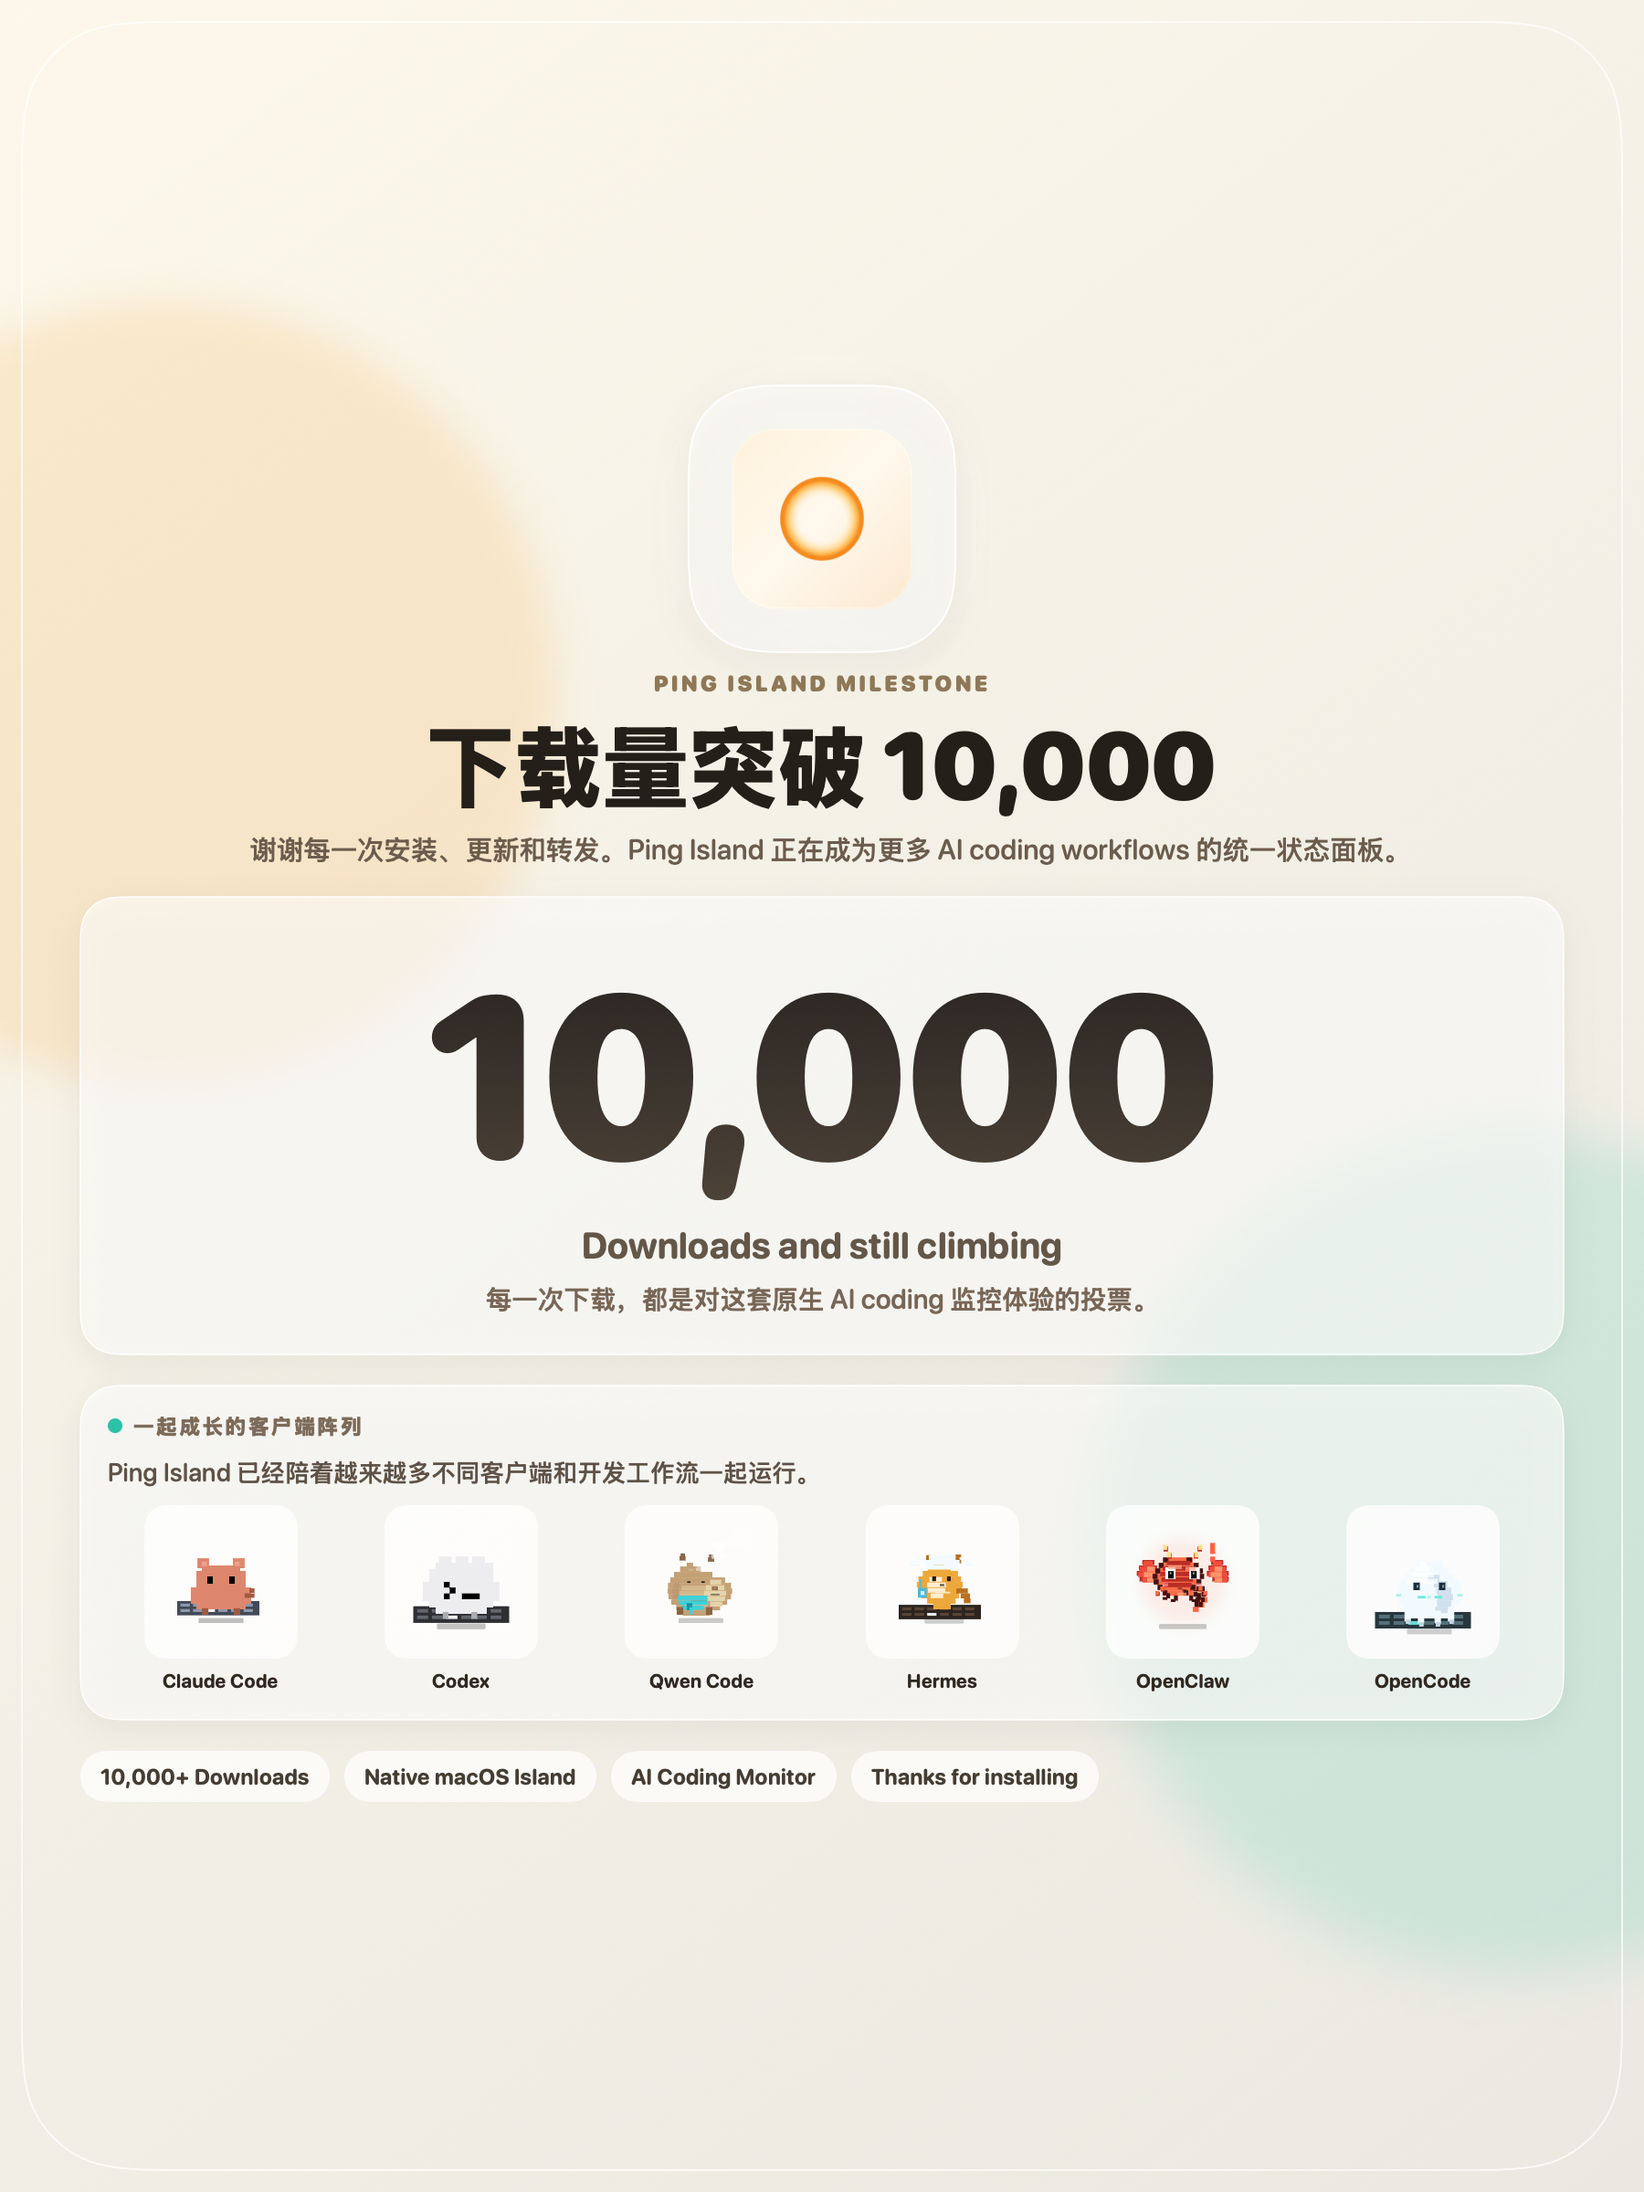
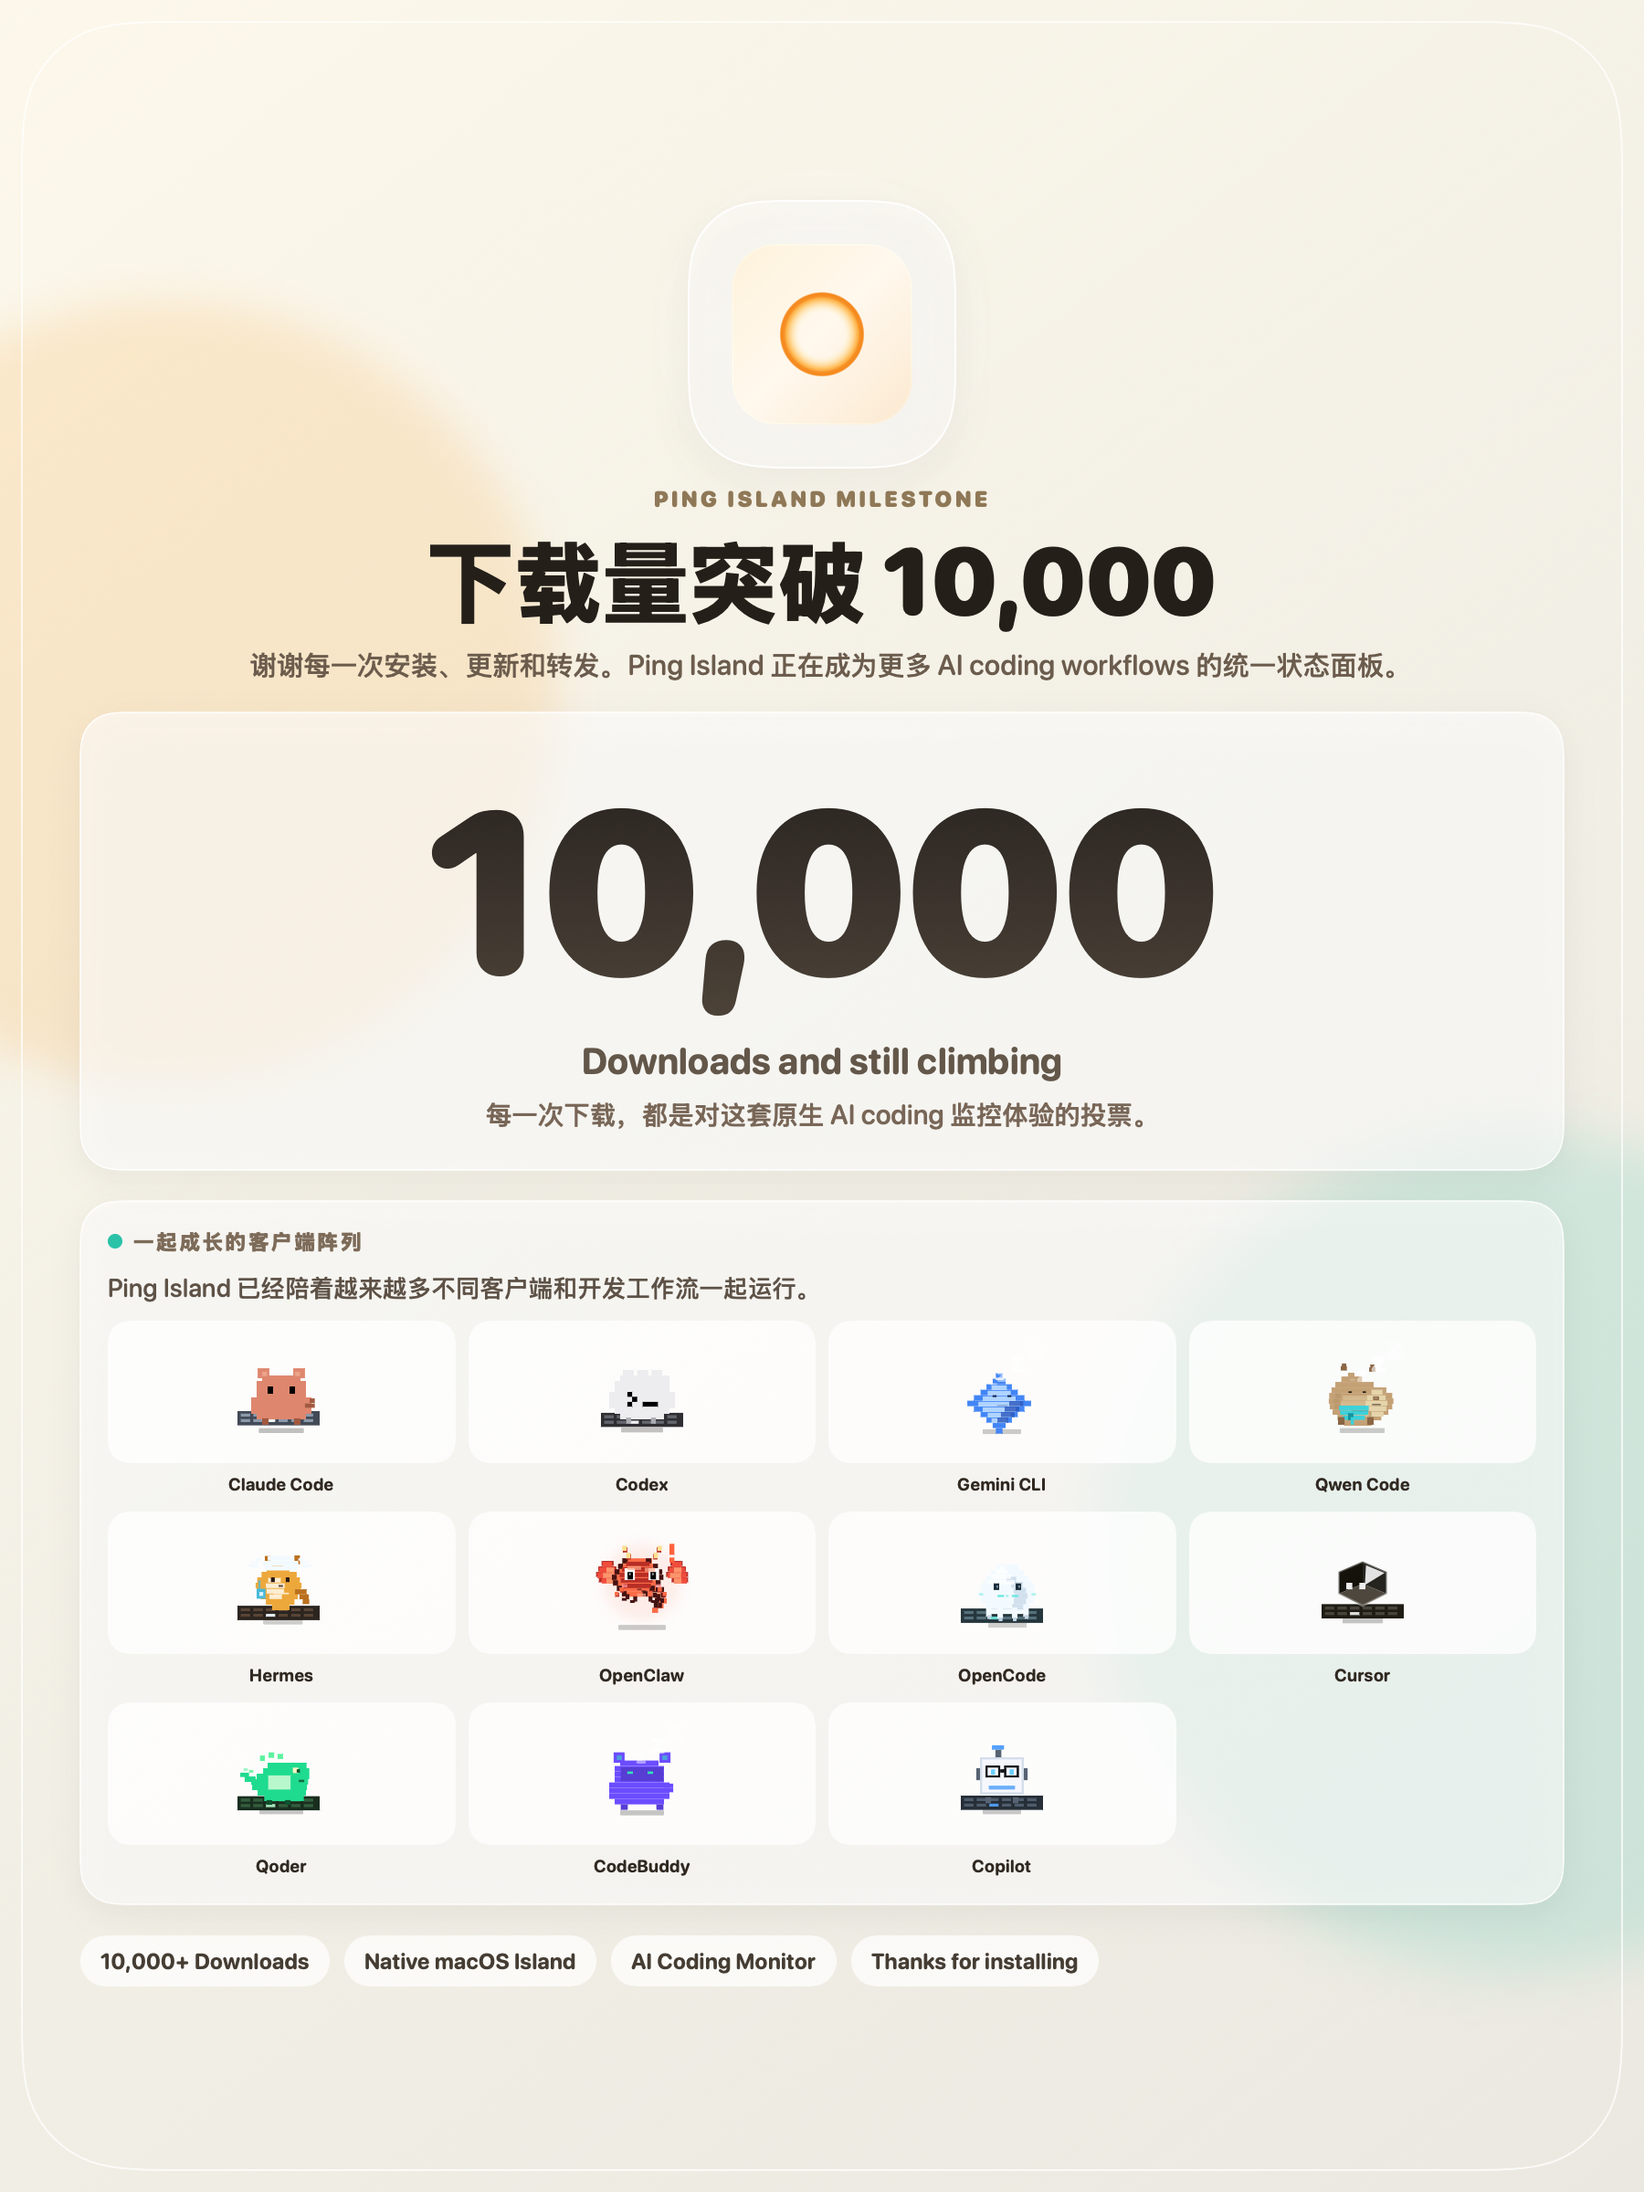
Expand the milestone poster to the full mascot roster
The celebratory poster should represent the full client ecosystem rather than a curated subset. This update switches the bottom section to a compact grid so every current mascot and client name can appear without changing the portrait canvas or the milestone headline.

Constraint: Keep the poster in the same 3:4 portrait format

Rejected: Split mascots across multiple posters | weakens the single-image milestone announcement

Confidence: high

Scope-risk: narrow

Reversibility: clean

Directive: When the mascot roster grows again, prefer tightening the grid before dropping clients from milestone celebration artwork

Tested: bash scripts/render-downloads-milestone-poster.sh; sips -g pixelWidth -g pixelHeight docs/images/ping-island-downloads-10000-cn.png

Not-tested: Manual visual review on multiple displays

diff --git a/scripts/mascot-export/ReleaseHighlightsPosterExporterMain.swift b/scripts/mascot-export/ReleaseHighlightsPosterExporterMain.swift
@@ -541,10 +541,15 @@ private struct Downloads10KChinesePoster: View {
                     clients: [
                         ("Claude Code", .claude, .working),
                         ("Codex", .codex, .working),
+                        ("Gemini CLI", .gemini, .idle),
                         ("Qwen Code", .qwen, .idle),
                         ("Hermes", .hermes, .working),
                         ("OpenClaw", .openclaw, .warning),
                         ("OpenCode", .opencode, .working),
+                        ("Cursor", .cursor, .working),
+                        ("Qoder", .qoder, .working),
+                        ("CodeBuddy", .codebuddy, .idle),
+                        ("Copilot", .copilot, .working),
                     ],
                     accent: Color(red: 0.17, green: 0.76, blue: 0.66)
                 )
@@ -568,6 +573,13 @@ private struct MilestoneClientStripCard: View {
     let clients: [(String, MascotKind, MascotStatus)]
     let accent: Color
 
+    private let columns = [
+        GridItem(.flexible(), spacing: 14),
+        GridItem(.flexible(), spacing: 14),
+        GridItem(.flexible(), spacing: 14),
+        GridItem(.flexible(), spacing: 14),
+    ]
+
     var body: some View {
         VStack(alignment: .leading, spacing: 20) {
             CardLabel(text: title, accent: accent)
@@ -577,24 +589,24 @@ private struct MilestoneClientStripCard: View {
                 .foregroundStyle(Color(red: 0.37, green: 0.32, blue: 0.28))
                 .fixedSize(horizontal: false, vertical: true)
 
-            HStack(spacing: 16) {
+            LazyVGrid(columns: columns, alignment: .leading, spacing: 18) {
                 ForEach(Array(clients.enumerated()), id: \.offset) { _, client in
                     VStack(spacing: 12) {
                         ZStack {
                             RoundedRectangle(cornerRadius: 24, style: .continuous)
                                 .fill(.white.opacity(0.76))
-                                .frame(width: 168, height: 168)
+                                .frame(height: 156)
 
-                            MascotView(kind: client.1, status: client.2, size: 118, animationTime: 0.8)
+                            MascotView(kind: client.1, status: client.2, size: 108, animationTime: 0.8)
                         }
 
                         Text(client.0)
-                            .font(.system(size: 21, weight: .bold, design: .rounded))
+                            .font(.system(size: 19, weight: .bold, design: .rounded))
                             .foregroundStyle(Color(red: 0.19, green: 0.16, blue: 0.13))
                             .multilineTextAlignment(.center)
                             .lineLimit(2)
                             .minimumScaleFactor(0.85)
-                            .frame(maxWidth: 168)
+                            .frame(maxWidth: .infinity)
                     }
                     .frame(maxWidth: .infinity)
                 }
